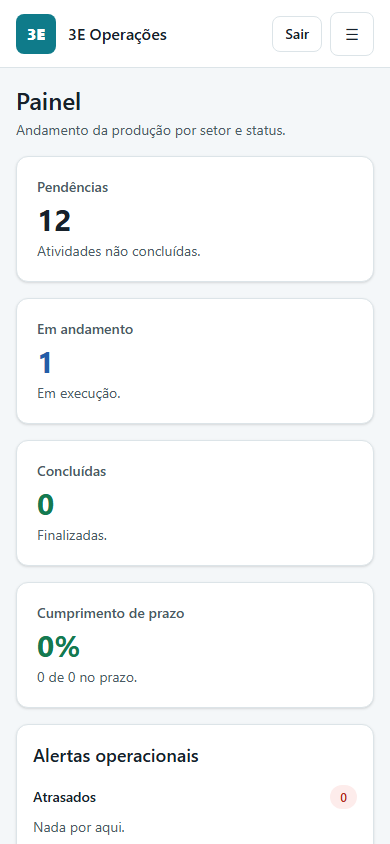
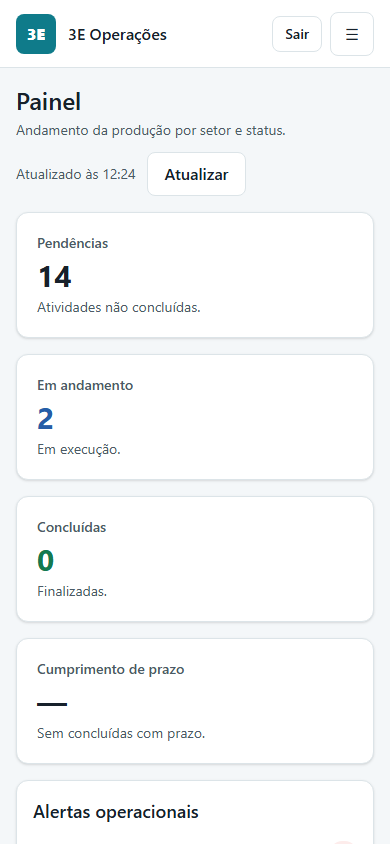
docs: registra validacao hospedada dos PRs #14 e #15

Changed region(s): [[0.0308, 0.1848, 0.9538, 0.9858], [0.4, 0.1848, 0.5846, 0.2156], [0.8615, 0.9242, 0.8923, 0.955]]

diff --git a/.specs/STATE.md b/.specs/STATE.md
@@ -249,7 +249,7 @@ Executar uma primeira feature pelo `tlc-spec-driven`: **importar um pedido por n
 - **Trade-off**: A navegação “Voltar” do detalhe passou a ser **full page load** (mais lenta que client-side), necessária para hidratar a listagem com a query antes do primeiro render. O limite de 60 s é **técnico**, não prazo de negócio/SLA. O job ativo antigo não é reenviado; se o conector ficar preso, a recuperação exige decisão operacional (mesma política anterior). A base local tem 7 pedidos, então o cenário de página 2 não é exercitável nela.
 - **Scope**: painel e detalhe do Gerente, detalhe/lista do Vendedor, importação, auditoria de job ativo, navegação/URL, testes e documentação. Permissões, saldos, prazos, entregas, remessas, ocorrências, Top Gerente e banco preservados. Sem migração.
 - **Date**: 2026-10-27
-- **Status**: active (integrada e validada localmente: **1037 testes**, lint 0 erros, typecheck/build OK; Playwright **15/15** novos + **11/11** responsivo/impressão + **9/9** Operador; deploy hospedado pendente).
+- **Status**: active (integrada e validada localmente: **1037 testes**, lint 0 erros, typecheck/build OK; Playwright **15/15** novos + **11/11** responsivo/impressão + **9/9** Operador; deploy e validação hospedada concluídos em 2026-10-27).
 
 ## Handoff — integração dos PRs #14 e #15 (2026-10-27)
 
@@ -261,9 +261,10 @@ Executar uma primeira feature pelo `tlc-spec-driven`: **importar um pedido por n
   - 1037 testes verdes (+14), lint 0 erros, typecheck e build OK.
   - Navegador: 15/15 (filtros/retorno Vendedor e Gerente, painel/Atualizar, itens recolhíveis, rótulos, importação sem envio, sem erros de console/hidratação).
   - Regressões: 11/11 responsivo/impressão e 9/9 Operador.
-- **In-progress**: deploy Railway e validação hospedada.
-- **Next step**: publicar a `main`, rodar os três scripts contra produção e atualizar `docs/validacao-hospedada.md`.
-- **Blockers**: testes de integração MySQL continuam gated; conector Top Gerente real e go-live seguem pendentes. PRs #14/#15 no GitHub devem ser fechados/mergeados após o push.
+  - Deploy Railway e validação hospedada: 15/15 + 11/11 + 9/9; `/api/health` e `/login` 200.
+- **In-progress**: nenhum.
+- **Next step**: manter os PRs #14/#15 fechados (já constam como merged) e planejar o go-live (conector real + banco dedicado).
+- **Blockers**: testes de integração MySQL continuam gated; conector Top Gerente real e go-live seguem pendentes.
 - **Files changed**: `src/app/(app)/gerente/painel`, `src/app/(app)/gerente/pedidos`, `src/app/(app)/vendedor/pedidos`, `src/shared/ui/{pedido-detalhe,pedidos-lista,importar-pedido,navegacao-perfil}`, `src/modules/integracao/{solicitar-importacao,transparencia-importacao}`, testes, `scripts/validar-prs-14-15.mjs`, docs e este arquivo.
 - **Branch**: `integracao-prs-14-15` → `main`.
 

diff --git a/docs/validacao-hospedada.md b/docs/validacao-hospedada.md
@@ -153,3 +153,27 @@ Validação feita na branch `fix/vendedor-integracao-pos-merge`, sem alterar pro
 - **Checks finais**: 1017 testes automatizados aprovados (24 de integração ignorados na suíte padrão), typecheck, typecheck do conector, lint sem erros e build OK.
 
 **Ainda não validado:** conector Top Gerente real, dados reais, deploy/hospedagem e teste manual em dispositivo físico. As decisões pendentes AD-010, AD-011, AD-012, AD-013, AD-016 e AD-017 continuam fora do escopo.
+
+---
+
+## 10. Atualização 2026-10-27 — integração dos PRs #14 e #15
+
+Deploy do commit `c3f1ff0` (merge dos PRs #15 e #14) e validação dos fluxos alterados em produção.
+
+| Item | Local | Hospedado |
+| --- | --- | --- |
+| PR #15 — painel/detalhe do Gerente (`a25d8b6`) | ✅ | ✅ |
+| PR #14 — filtros/importação do Vendedor (`854d0c3`) | ✅ | ✅ |
+| Testes automatizados | **1037** verdes + 24 ignorados | mesmos artefatos do commit |
+| Lint / typecheck / build | 0 erros / OK / OK | — |
+| Playwright — novos fluxos (`validar-prs-14-15.mjs`) | **15/15** | **15/15** |
+| Playwright — responsivo/impressão | **11/11** | **11/11** |
+| Playwright — Operador | **9/9** | **9/9** |
+| `/api/health` / `/login` | — | **200 / 200** |
+
+- **PRs no GitHub**: #15 e #14 constam como **merged** (`a25d8b6` e `854d0c3`).
+- **Validação hospedada**: filtros/retorno do Vendedor e do Gerente, painel com Atualizar, itens recolhíveis, rótulos de prazo e formulário de importação; sem erros de console/hidratação.
+- **Base de dados**: 7 pedidos; cenário de página 2 não aplicável (N/A) nesta base. Testes de integração MySQL permanecem *gated*.
+- **Ressalva**: o deploy reutilizou o token de projeto de 2026-10-25; **rotacionar/revogar** após a entrega. O banco do app continua compartilhado com o desenvolvimento.
+
+**Evidências**: `docs/video/validacao-prs-14-15/` e `docs/video/validacao-prod/`.
